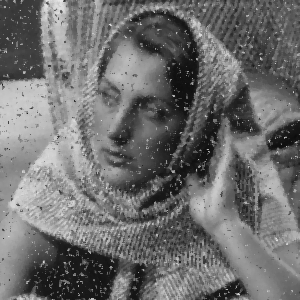
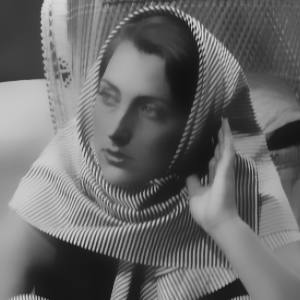
Bilateral et nl-means

diff --git a/3-filtering/intro/nl-means.cpp b/3-filtering/intro/nl-means.cpp
@@ -9,13 +9,14 @@ using namespace std;
 
 double
 computeTreshDistance(int sigma){
-
+  //This compute the distance max two pixels of different patchs
+  double distanceMax = (-2)*sigma*sigma*log(0.1);
+  return distanceMax;
 }
 
 void
 process(int sigma, const char* imsname, const char* imdname)
 {
-  (void) imdname;
   //Check the existence of the file, if the file doesn't exist the programme stop
   fstream infile(imsname);
   if (infile.good() == false){
@@ -23,49 +24,61 @@ process(int sigma, const char* imsname, const char* imdname)
     exit(EXIT_FAILURE);
   }
   cout<< "\n############### exercice : nl-means ##############\n"<<endl;
-  //Read the image and display it whit the size
+  //Read the image and display it
   Mat ims = imread(imsname, 0);
-  Size s = ims.size();
+  imshow("Initial",ims);
 
+  Size s = ims.size();
+  cout<<"Width : "<<s.height<<"  Height : "<<s.width<<endl;
+
+  //Variables declarations and initialization
   Mat imd(s,CV_8UC1);
-  //According to author the patch tall should be 7*7. We can deduce r=3
+  // According to author the patch tall should be 7*7. We can deduce r=3
   int patch_radius = 3;
   //According to author the window tall should be 11*11. We can deduce r=5
   int window_radius = 5;
-  int patchs_sum;
-  int pi,pj,qi,qj=0;
-  int w;
-  int sum_w;
-  int sum_w_means;
-  // for(int i=0; i<s.height; i++){
-  //   for(int j=0; j<s.width; j++){
-  //     patchs_sum =0;
-  //     pi=i;
-  //     pj=j;
-  //     w=0;
-  //     sum_w=0;
-  //     for(int l=-window_radius; l<=window_radius; l++){
-  //       for(int m=-window_radius; m<=window_radius; m++){
-  //         if(i+l>=0 && j+m>=0 && i+l<s.height && j+m<s.width){
-  //           qi=i+l;
-  //           qj=j+m;
-  //           for(int u=-patch_radius; u<=patch_radius; u++){
-  //             for(int v=-patch_radius; v<=patch_radius; u++){
-  //               if(i+u>=0 && j+v>=0 && i+u<s.height && j+v<s.width && qi+u>=0 && qj+v>=0 && qi+u<s.height && qj+v<s.width){
-  //                 patchs_sum +=pow(ims.at<uchar>(pi+u,pj+v)-ims.at<uchar>(qi+u,qj+v),2);
-  //               }
-  //             }
-  //           }
-  //           w = exp((-1)*(patchs_sum/pow(2*patch_radius+1,1))/2*pow(sigma,2));
-  //           sum_w += w;
-  //           sum_w_means += w*ims.at<uchar>(qi,qj);
-  //         }
-  //       }
-  //     }
-  //     cout << sum_w << endl;
-  //   }
-  // }
+  double distance_max = computeTreshDistance(sigma)*(2*patch_radius+1)*(2*patch_radius+1);
+  int patchs_sum, sum_w, sum_w_means, pi, pj, qi, qj, Ip, Iq, nb_in_patch=0;
+  double w;
 
+  for(int i=0; i<s.height; i++){
+    for(int j=0; j<s.width; j++){
+      pi=i;
+      pj=j;
+      sum_w=0;
+      sum_w_means=0;
+      for(int l=-window_radius; l<=window_radius; l++){
+        for(int m=-window_radius; m<=window_radius; m++){
+          nb_in_patch=0;
+          patchs_sum =0;
+          w=0;
+          if(i+l>=0 && j+m>=0 && i+l<s.height && j+m<s.width){
+            qi=i+l;
+            qj=j+m;
+            for(int u=-patch_radius; u<=patch_radius; u++){
+              for(int v=-patch_radius; v<=patch_radius; v++){
+                if(qi+u>=0 && qj+v>=0 && qi+u<s.height && qj+v<s.width){
+                    Ip = ims.at<uchar>(pi+u,pj+v);
+                    Iq = ims.at<uchar>(qi+u,qj+v);
+                    patchs_sum +=(Ip-Iq)*(Ip-Iq);
+                    nb_in_patch+=1;
+                }
+              }
+            }
+            if(patchs_sum <= distance_max){
+              w = exp((-patchs_sum/nb_in_patch)/(2*sigma*sigma));
+              sum_w += w;
+              sum_w_means+=w*ims.at<uchar>(qi,qj);
+            }
+          }
+        }
+      }
+      imd.at<uchar>(pi,pj)=sum_w_means/sum_w;
+    }
+  }
+  imshow(imdname,imd);
+  imwrite(imdname,imd);
+  waitKey(0);
 }
 
 void

diff --git a/3-filtering/intro/bilateral.cpp b/3-filtering/intro/bilateral.cpp
@@ -7,13 +7,22 @@
 using namespace cv;
 using namespace std;
 
+int
+distance_computation(int sigma){
+  //This compute the distance max two pixels of different patchs
+  int x=0;
+  double g_value;
+  do{
+    g_value=exp(-pow(x,2)/(2*pow(sigma,2)));
+    x++;
+  } while (g_value>0.1);
+
+  return x-1;
+}
+
 void
 process(int sigma_s, int sigma_g, const char* imsname, const char* imdname)
 {
-  (void) sigma_s;
-  (void) sigma_g;
-  (void) imsname;
-  (void) imdname;
   //Check the existence of the file, if the file doesn't exist the programme stop
   fstream infile(imsname);
   if (infile.good() == false){
@@ -21,9 +30,57 @@ process(int sigma_s, int sigma_g, const char* imsname, const char* imdname)
     exit(EXIT_FAILURE);
   }
   cout<< "\n############### exercice : bilateral ##############\n"<<endl;
-  //Read the image and display it whit the size
+  //Read the image and display it
   Mat ims = imread(imsname, 0);
-  // Size s = ims.size();
+  imshow("Initial",ims);
+
+  Size s = ims.size();
+
+  //Variables declaration and initialization
+  Mat imd(s,CV_8UC1);
+  int s_distance = distance_computation(sigma_s);
+  cout <<"The distance is"<<s_distance<<endl;
+  // double g_distance_max = distance_computation(sigma_g);
+  int p,q,pi,pj,qi,qj,distance_pq=0;
+  double sum_num, sum_denom =0;
+
+  float Gs_values[s_distance];
+  float Gc_values[256];
+
+  for(int c=0; c<=s_distance; c++){
+    Gs_values[c] = exp(-pow(c,2)/(2*pow(sigma_s,2)));
+  }
+  for(int a=0; a<256; a++){
+    Gc_values[a] = exp(-pow(a,2)/(2*pow(sigma_g,2)));
+  }
+
+  for(int i=0; i<s.height; i++){
+    for(int j=0; j<s.width; j++){
+      sum_num=0;
+      sum_denom =0;
+      pi=i;
+      pj=j;
+      for(int l=-s_distance; l<=s_distance; l++){
+        for(int m=-s_distance; m<=s_distance; m++){
+          if(i+l>=0 && j+m>=0 && i+l<s.height && j+m<s.width){
+            qi=i+l;
+            qj=j+m;
+            distance_pq = abs(pi-qi)+ abs(pj-qj);
+            if( distance_pq<= s_distance){
+              p=ims.at<uchar>(pi,pj);
+              q=ims.at<uchar>(qi,qj);
+              sum_num+=Gs_values[distance_pq]*Gc_values[abs(p-q)]*q;
+              sum_denom +=Gs_values[distance_pq]*Gc_values[abs(p-q)];
+            }
+          }
+        }
+      }
+      imd.at<uchar>(pi,pj)=sum_num/sum_denom;
+    }
+  }
+  imwrite(imdname,imd);
+
+  waitKey(0);
 
 }
 

diff --git a/3-filtering/intro/median-filter.cpp b/3-filtering/intro/median-filter.cpp
@@ -18,7 +18,7 @@ process(int r, const char* imsname, const char* imdname)
     exit(EXIT_FAILURE);
   }
   cout<< "\n############### exercice : median-filter ##############\n"<<endl;
-  //Read the image and display it whit the size
+  //Read the image
   Mat ims = imread(imsname, 0);
   Size s = ims.size();
 
